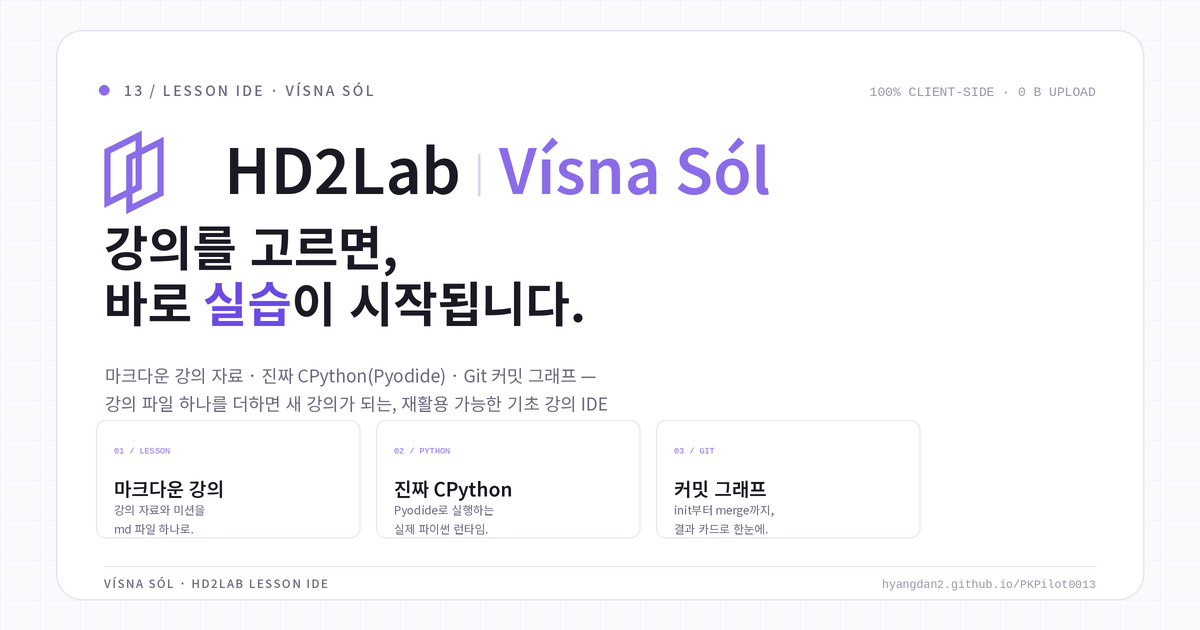
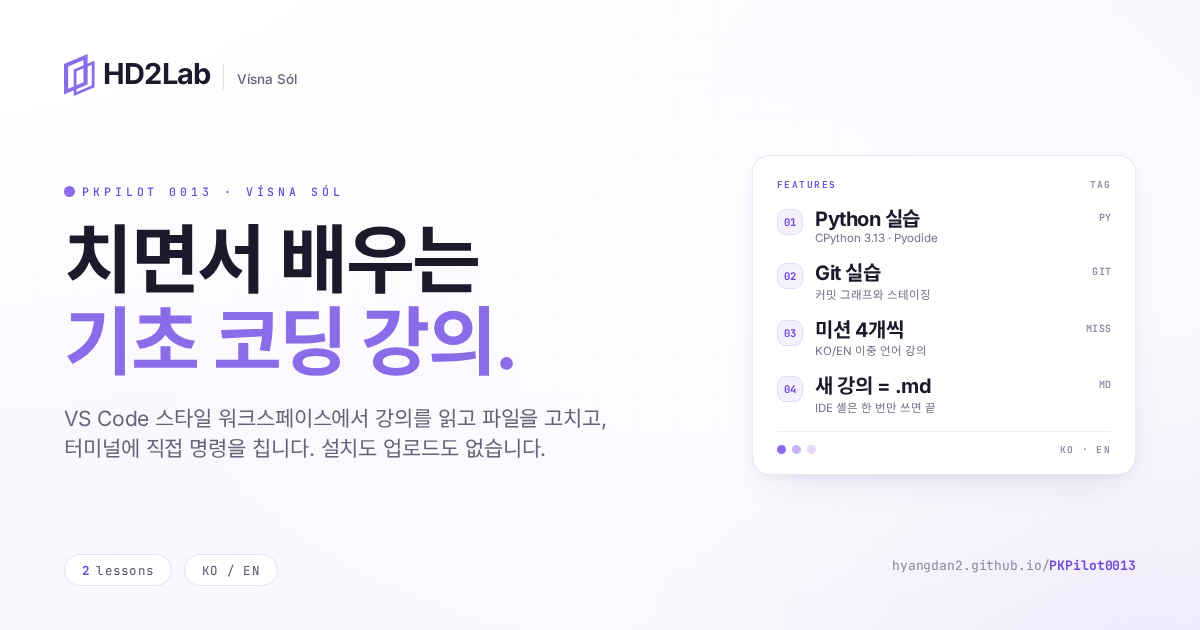
chore(og): share card in the HD2's Diary OG style (#3)
Rebuild og:image / twitter:image as the 1200x630 Diary-style card (Soft Iris wash, dual-skew mark, left title, right feature card) and bump the cache-busting query to ?v=20261121-og.

diff --git a/index.html b/index.html
@@ -34,8 +34,8 @@
       content="강의를 고르면 바로 실습이 시작됩니다. 마크다운 강의 자료와 미션을 읽고, Python(Pyodide)·Git을 같은 VS Code 화면에서 직접 실행하며 배우는 HD2Lab 기초 강의 IDE — 설치 0, 업로드 0 B."
     />
     <meta property="og:url" content="https://hyangdan2.github.io/PKPilot0013/" />
-    <meta property="og:image" content="https://hyangdan2.github.io/PKPilot0013/og-image.png" />
-    <meta property="og:image:secure_url" content="https://hyangdan2.github.io/PKPilot0013/og-image.png" />
+    <meta property="og:image" content="https://hyangdan2.github.io/PKPilot0013/og-image.png?v=20261121-og" />
+    <meta property="og:image:secure_url" content="https://hyangdan2.github.io/PKPilot0013/og-image.png?v=20261121-og" />
     <meta property="og:image:type" content="image/png" />
     <meta property="og:image:width" content="1200" />
     <meta property="og:image:height" content="630" />
@@ -48,7 +48,7 @@
       name="twitter:description"
       content="마크다운 강의를 읽고 Python·Git을 브라우저에서 직접 실행하며 배우는 HD2Lab 기초 강의 IDE — 설치 0, 업로드 0 B."
     />
-    <meta name="twitter:image" content="https://hyangdan2.github.io/PKPilot0013/og-image.png" />
+    <meta name="twitter:image" content="https://hyangdan2.github.io/PKPilot0013/og-image.png?v=20261121-og" />
     <meta name="twitter:image:alt" content="HD2Lab Vísna Sól — 기초 강의 IDE" />
   </head>
   <body>
